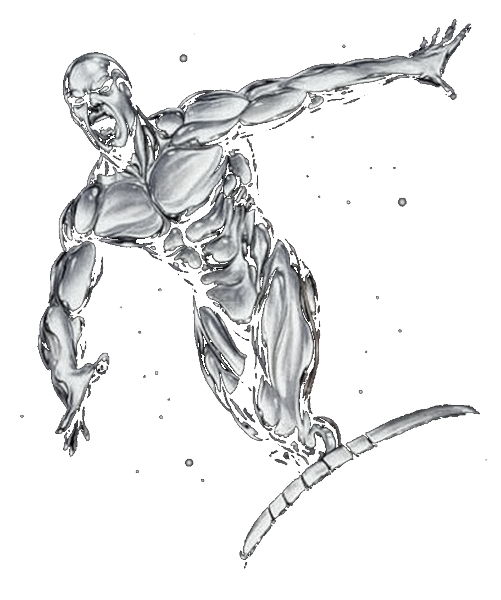
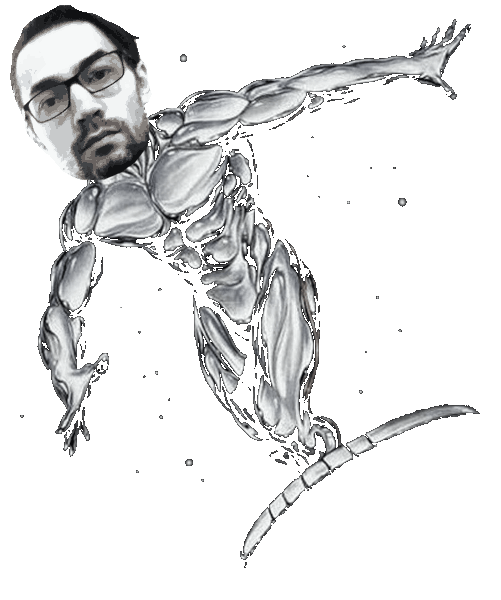
Add files via upload

diff --git a/index.html b/index.html
@@ -97,7 +97,7 @@
                   ></path>
                 </svg>
                 <span>
-                  I am learning how the web works and keep falling into
+                  I am also leargning how the web works and keep falling into
                   one black hole after other</span
                 >
               </li>
@@ -156,7 +156,7 @@
     <div class="container">
       <img
         id="surfer"
-        src="images/surfer.png"
+        src="images/surfer3.png"
         alt="Silver Surfer with some stupid head on it"
       />
     </div>
@@ -248,22 +248,6 @@
           fill="#61dafb"
           d="M418.2 177.2c-5.4-1.8-10.8-3.5-16.2-5.1.9-3.7 1.7-7.4 2.5-11.1 12.3-59.6 4.2-107.5-23.1-123.3-26.3-15.1-69.2.6-112.6 38.4-4.3 3.7-8.5 7.6-12.5 11.5-2.7-2.6-5.5-5.2-8.3-7.7-45.5-40.4-91.1-57.4-118.4-41.5-26.2 15.2-34 60.3-23 116.7 1.1 5.6 2.3 11.1 3.7 16.7-6.4 1.8-12.7 3.8-18.6 5.9C38.3 196.2 0 225.4 0 255.6c0 31.2 40.8 62.5 96.3 81.5 4.5 1.5 9 3 13.6 4.3-1.5 6-2.8 11.9-4 18-10.5 55.5-2.3 99.5 23.9 114.6 27 15.6 72.4-.4 116.6-39.1 3.5-3.1 7-6.3 10.5-9.7 4.4 4.3 9 8.4 13.6 12.4 42.8 36.8 85.1 51.7 111.2 36.6 27-15.6 35.8-62.9 24.4-120.5-.9-4.4-1.9-8.9-3-13.5 3.2-.9 6.3-1.9 9.4-2.9 57.7-19.1 99.5-50 99.5-81.7 0-30.3-39.4-59.7-93.8-78.4zM282.9 92.3c37.2-32.4 71.9-45.1 87.7-36 16.9 9.7 23.4 48.9 12.8 100.4-.7 3.4-1.4 6.7-2.3 10-22.2-5-44.7-8.6-67.3-10.6-13-18.6-27.2-36.4-42.6-53.1 3.9-3.7 7.7-7.2 11.7-10.7zM167.2 307.5c5.1 8.7 10.3 17.4 15.8 25.9-15.6-1.7-31.1-4.2-46.4-7.5 4.4-14.4 9.9-29.3 16.3-44.5 4.6 8.8 9.3 17.5 14.3 26.1zm-30.3-120.3c14.4-3.2 29.7-5.8 45.6-7.8-5.3 8.3-10.5 16.8-15.4 25.4-4.9 8.5-9.7 17.2-14.2 26-6.3-14.9-11.6-29.5-16-43.6zm27.4 68.9c6.6-13.8 13.8-27.3 21.4-40.6s15.8-26.2 24.4-38.9c15-1.1 30.3-1.7 45.9-1.7s31 .6 45.9 1.7c8.5 12.6 16.6 25.5 24.3 38.7s14.9 26.7 21.7 40.4c-6.7 13.8-13.9 27.4-21.6 40.8-7.6 13.3-15.7 26.2-24.2 39-14.9 1.1-30.4 1.6-46.1 1.6s-30.9-.5-45.6-1.4c-8.7-12.7-16.9-25.7-24.6-39s-14.8-26.8-21.5-40.6zm180.6 51.2c5.1-8.8 9.9-17.7 14.6-26.7 6.4 14.5 12 29.2 16.9 44.3-15.5 3.5-31.2 6.2-47 8 5.4-8.4 10.5-17 15.5-25.6zm14.4-76.5c-4.7-8.8-9.5-17.6-14.5-26.2-4.9-8.5-10-16.9-15.3-25.2 16.1 2 31.5 4.7 45.9 8-4.6 14.8-10 29.2-16.1 43.4zM256.2 118.3c10.5 11.4 20.4 23.4 29.6 35.8-19.8-.9-39.7-.9-59.5 0 9.8-12.9 19.9-24.9 29.9-35.8zM140.2 57c16.8-9.8 54.1 4.2 93.4 39 2.5 2.2 5 4.6 7.6 7-15.5 16.7-29.8 34.5-42.9 53.1-22.6 2-45 5.5-67.2 10.4-1.3-5.1-2.4-10.3-3.5-15.5-9.4-48.4-3.2-84.9 12.6-94zm-24.5 263.6c-4.2-1.2-8.3-2.5-12.4-3.9-21.3-6.7-45.5-17.3-63-31.2-10.1-7-16.9-17.8-18.8-29.9 0-18.3 31.6-41.7 77.2-57.6 5.7-2 11.5-3.8 17.3-5.5 6.8 21.7 15 43 24.5 63.6-9.6 20.9-17.9 42.5-24.8 64.5zm116.6 98c-16.5 15.1-35.6 27.1-56.4 35.3-11.1 5.3-23.9 5.8-35.3 1.3-15.9-9.2-22.5-44.5-13.5-92 1.1-5.6 2.3-11.2 3.7-16.7 22.4 4.8 45 8.1 67.9 9.8 13.2 18.7 27.7 36.6 43.2 53.4-3.2 3.1-6.4 6.1-9.6 8.9zm24.5-24.3c-10.2-11-20.4-23.2-30.3-36.3 9.6.4 19.5.6 29.5.6 10.3 0 20.4-.2 30.4-.7-9.2 12.7-19.1 24.8-29.6 36.4zm130.7 30c-.9 12.2-6.9 23.6-16.5 31.3-15.9 9.2-49.8-2.8-86.4-34.2-4.2-3.6-8.4-7.5-12.7-11.5 15.3-16.9 29.4-34.8 42.2-53.6 22.9-1.9 45.7-5.4 68.2-10.5 1 4.1 1.9 8.2 2.7 12.2 4.9 21.6 5.7 44.1 2.5 66.3zm18.2-107.5c-2.8.9-5.6 1.8-8.5 2.6-7-21.8-15.6-43.1-25.5-63.8 9.6-20.4 17.7-41.4 24.5-62.9 5.2 1.5 10.2 3.1 15 4.7 46.6 16 79.3 39.8 79.3 58 0 19.6-34.9 44.9-84.8 61.4zm-149.7-15c25.3 0 45.8-20.5 45.8-45.8s-20.5-45.8-45.8-45.8c-25.3 0-45.8 20.5-45.8 45.8s20.5 45.8 45.8 45.8z"
           class=""
-        ></path>
-      </svg>
-
-      <svg
-        width="82"
-        height="40"
-        viewBox="0 0 148 90"
-        version="1.1"
-        xmlns:xlink="http://www.w3.org/1999/xlink"
-        class="nextjssvg"
-        alt="Next.js logo"
-      >
-        <path
-          d="M34.992 23.495h27.855v2.219H37.546v16.699h23.792v2.219H37.546v18.334h25.591v2.219H34.992v-41.69zm30.35 0h2.96l13.115 18.334 13.405-18.334L113.055.207 83.1 43.756l15.436 21.429H95.46L81.417 45.683 67.316 65.185h-3.018L79.85 43.756 65.343 23.495zm34.297 2.219v-2.219h31.742v2.219h-14.623v39.47h-2.554v-39.47H99.64zM.145 23.495h3.192l44.011 66.003L29.16 65.185 2.814 26.648l-.116 38.537H.145v-41.69zm130.98 38.801c-.523 0-.914-.405-.914-.928 0-.524.391-.929.913-.929.528 0 .913.405.913.929 0 .523-.385.928-.913.928zm2.508-2.443H135c.019.742.56 1.24 1.354 1.24.888 0 1.391-.535 1.391-1.539v-6.356h1.391v6.362c0 1.808-1.043 2.849-2.77 2.849-1.62 0-2.732-1.01-2.732-2.556zm7.322-.08h1.379c.118.853.95 1.395 2.149 1.395 1.117 0 1.937-.58 1.937-1.377 0-.685-.521-1.097-1.708-1.377l-1.155-.28c-1.62-.38-2.36-1.166-2.36-2.487 0-1.602 1.304-2.668 3.26-2.668 1.82 0 3.15 1.066 3.23 2.58h-1.354c-.13-.828-.85-1.346-1.894-1.346-1.1 0-1.832.53-1.832 1.34 0 .642.472 1.01 1.64 1.284l.987.243c1.838.43 2.596 1.178 2.596 2.53 0 1.72-1.33 2.799-3.453 2.799-1.987 0-3.323-1.029-3.422-2.637z"
-          fill="#fff"
-          fill-rule="nonzero"
         ></path>
       </svg>
     </div>

diff --git a/style.css b/style.css
@@ -79,6 +79,8 @@ body p {
 }
 
 .header {
+  border-right: 2px solid #1e1e21;
+  background-color: rgba(30, 30, 33, 0.6);
   display: inline-block;
   -webkit-box-pack: center;
       -ms-flex-pack: center;
@@ -94,6 +96,12 @@ body p {
 
 .header .__header-container {
   max-width: 12vw;
+}
+
+@media only screen and (max-width: 600px) {
+  .header .__header-container {
+    max-width: 25vw;
+  }
 }
 
 .header .__header-logo-link {
@@ -119,6 +127,8 @@ body p {
 }
 
 .main {
+  border-right: 2px solid #1e1e21;
+  background-color: rgba(30, 30, 33, 0.6);
   max-width: 50vw;
   padding-left: 4.3rem;
   padding-bottom: 4.3rem;
@@ -306,8 +316,8 @@ body p {
 }
 
 #surfer {
-  position: absolute;
-  width: 20vw;
+  position: fixed;
+  width: 25vw;
   right: 0;
   bottom: 0;
 }
@@ -330,45 +340,87 @@ body p {
           align-items: center;
 }
 
+@media only screen and (max-width: 900px) {
+  .tech {
+    width: 20rem;
+    position: fixed;
+    display: -webkit-box;
+    display: -ms-flexbox;
+    display: flex;
+    left: calc(70vw - 10rem);
+    -webkit-box-orient: vertical;
+    -webkit-box-direction: normal;
+        -ms-flex-direction: column;
+            flex-direction: column;
+    -webkit-box-pack: center;
+        -ms-flex-pack: center;
+            justify-content: center;
+  }
+  #surfer {
+    position: fixed;
+    width: 17vw;
+    right: 0;
+    bottom: 0;
+  }
+}
+
+@media only screen and (max-width: 600px) {
+  .tech {
+    width: 100vw;
+    left: auto;
+    -webkit-box-orient: vertical;
+    -webkit-box-direction: normal;
+        -ms-flex-direction: column;
+            flex-direction: column;
+    -webkit-box-pack: center;
+        -ms-flex-pack: center;
+            justify-content: center;
+    -webkit-box-align: center;
+        -ms-flex-align: center;
+            align-items: center;
+  }
+  #surfer {
+    position: relative;
+    width: 20vw;
+    left: 50%;
+    bottom: 1rem;
+    z-index: 4;
+  }
+}
+
 .htmlsvg {
   position: relative;
-  height: 15vh;
-  margin-top: 1.66vh;
-  margin-bottom: 1.66vh;
+  height: 17.6vh;
+  margin-top: 2vh;
+  margin-bottom: 2vh;
   z-index: 1;
 }
 
 .csssvg {
   position: relative;
-  height: 15vh;
-  margin-bottom: 1.66vh;
+  height: 17.6vh;
+  margin-bottom: 2vh;
   z-index: 1;
 }
 
 .sasssvg {
   position: relative;
-  height: 15vh;
-  margin-bottom: 1.66vh;
+  height: 17.6vh;
+  margin-bottom: 2vh;
   z-index: 1;
 }
 
 .jssvg {
   position: relative;
-  height: 15vh;
-  margin-bottom: 1.66vh;
+  height: 17.6vh;
+  margin-bottom: 2vh;
   z-index: 1;
 }
 
 .reactsvg {
   position: relative;
-  height: 15vh;
-  margin-bottom: 1.66vh;
-  z-index: 1;
-}
-
-.nextjssvg {
-  position: relative;
-  height: 15vh;
+  height: 17.6vh;
+  margin-bottom: 2vh;
   z-index: 1;
 }
 
